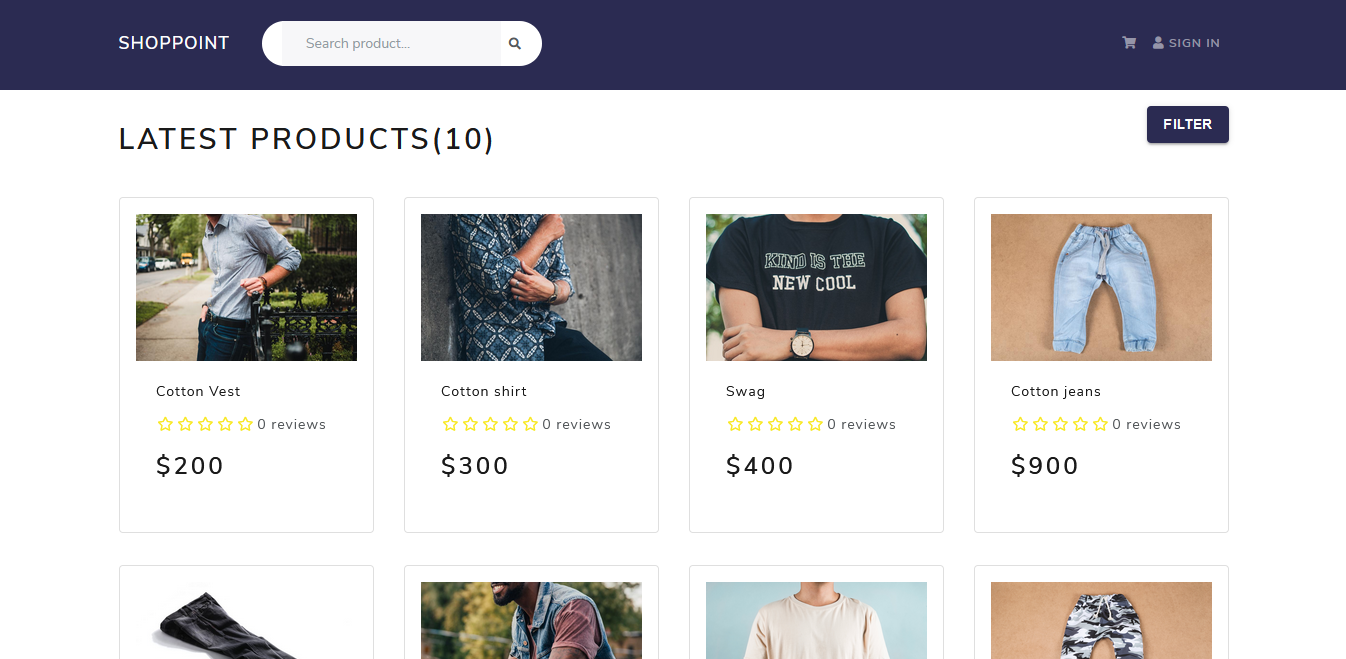
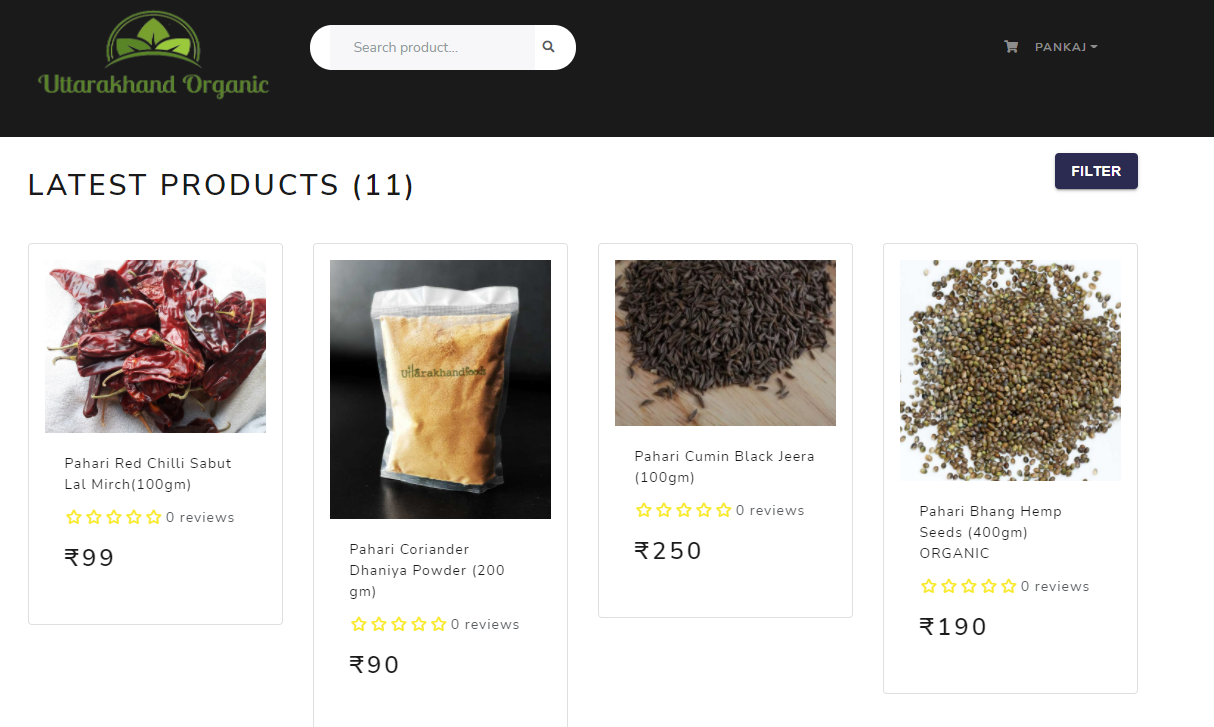
some fixes

diff --git a/README.md b/README.md
@@ -1,8 +1,6 @@
-# Welcome to ShopPoint! ✨
+# Welcome to Uttarakhand Organic - An ecommerce Portal! ✨
 
-[![PRs Welcome](https://img.shields.io/badge/PRs-welcome-brightgreen.svg?style=flat-square)](https://shoppingpoint.herokuapp.com/)&nbsp;[![Build passing](https://img.shields.io/badge/Build-Passing-brightgreen.svg?style=flat-square)](https://shoppingpoint.herokuapp.com/)&nbsp;[![Open Source Love](https://badges.frapsoft.com/os/v1/open-source.svg?v=102)](https://foodeazy.herokuapp.com/)&nbsp;[![License](https://img.shields.io/badge/license-MIT-brightgreen)](https://shoppingpoint.herokuapp.com/)&nbsp;![Made with love in Nepal](https://madewithlove.now.sh/np?heart=true)
-
-**Project Link** - ***https://shoppoint.herokuapp.com/***
+**Project Link** - ***https://uttarakhand_organic.herokuapp.com/***
 
 ![screenshot](image/home.PNG)
 
@@ -24,11 +22,7 @@
 - Checkout process (shipping, payment method, etc)
 - Order summary
 - PayPal / credit card integration
-- Esewa payment integration (Nepali payment gateway)
 - Database seeder (products, users, reviews, & orders)
-
-**New features (Added)**
-
 - Print User orders as pdf
 - Print UserList as pdf
 - Print OrderList as pdf
@@ -54,8 +48,6 @@
 ## API :man_technologist:
 
 - [PayPal API](https://developer.paypal.com/)
-- [Esewa API](https://developer.esewa.com.np)
-- [Send Grid API](https://sendgrid.com/)
 - [Cloudinary API](https://cloudinary.com/)
 
 ## Installation :zap:
@@ -63,16 +55,16 @@
 **1. Clone this repo by running the following command :-**
 
 ```bash
- git clone https://github.com/SajidAnTechie/ShopPoint
- cd ShopPoint
+ git https://github.com/GauravNegi000/uttarakhand_organic.git
+ cd uttarakhand_organic
 ```
 
 **2. Now install all the required packages(frontend & backend) by running the following commands :-**
 
 ```
-yarn add
+yarn install
 cd client
-yarn add
+yarn install
 ```
 
 **2. Create a config.env file in config folder and add the following**
@@ -95,10 +87,8 @@ CLOUD_NAME=your cloudinary name
 API_KEY=your cloudinary api key
 API_SECRET=your cloudinary api secret key
 
-SEND_GRID_KEY=your sendgrid api key
-
 FROM_EMAIL=your sender email
-FROM_NAME=ShoppingPoint
+FROM_NAME=Uttarakhand Organic
 
 ```
 
@@ -125,5 +115,3 @@ yarn start
 ```
 
 **5.** **🎉 Open your browser and go to `https://localhost:3000`**
-
-## 🤩 Don't forget to give this repo a ⭐ if you like this repo and want to appreciate our efforts
